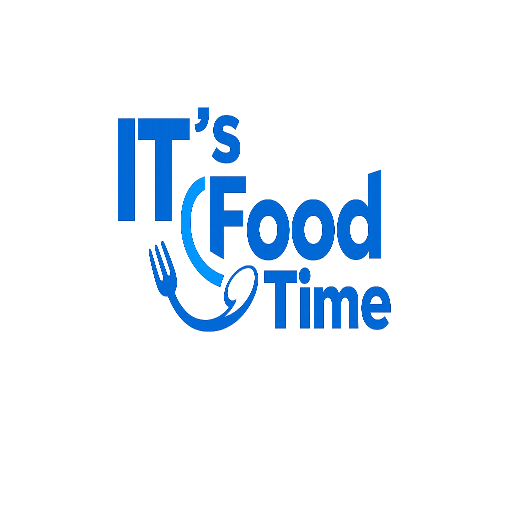
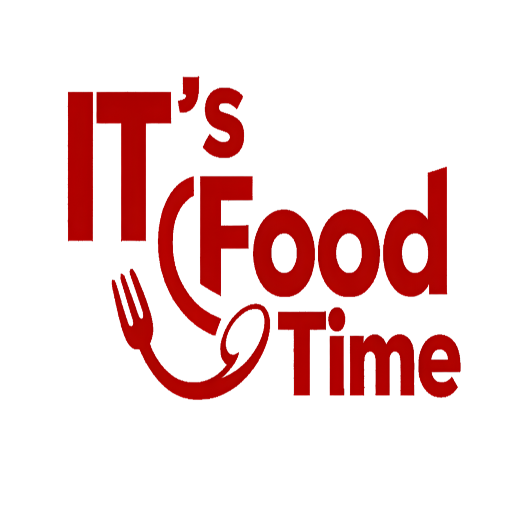
update warna

Changed region(s): [[0.125, 0.125, 0.9062, 0.7812]]

diff --git a/src/App.vue b/src/App.vue
@@ -237,7 +237,7 @@ onMounted(() => {
     <div class="modern-loader" :class="{ 'slide-up-exit': !isAppLoading }" v-if="preventUnmount">
       <div class="loader-content">
         <div class="loader-text-mask">
-          <img src="/logo/logo.png" alt="IT's Food Time Logo" class="loader-logo" />
+          <img src="/logo/logo1.png" alt="IT's Food Time Logo" class="loader-logo" />
         </div>
         <div class="loader-line-wrapper">
           <div class="loader-line"></div>
@@ -254,7 +254,7 @@ onMounted(() => {
           <!-- Logo -->
           <div class="header-left">
             <a href="#" class="logo" @click.prevent="navigateTo('home')">
-              <img src="/logo/logo.png" alt="Logo" class="logo-img" />
+              <img src="/logo/logo1.png" alt="Logo" class="logo-img" />
             </a>
           </div>
           
@@ -306,7 +306,7 @@ onMounted(() => {
             <div class="hero-overlay">
               <div class="container hero-content-centered">
                 <div class="badge">Student Special DiSC 20%</div>
-                <h1>Gather & Eat with Joy,<br/><span class="text-blue">Just like Home!</span></h1>
+                <h1>Gather & Eat with Joy,<br/><span class="text-primary">Just like Home!</span></h1>
                 <p>Tired of campus meals? IT's Food Time brings you fresh, hot, and tasty food where everyone can gather comfortably.</p>
                 <div class="hero-actions">
                   <a href="#menu" class="btn btn-primary">Order Now</a>
@@ -658,7 +658,7 @@ onMounted(() => {
   overflow: hidden;
   height: 100vh;
 }
-.text-blue {
+.text-primary {
   color: var(--primary);
 }
 

diff --git a/src/style.css b/src/style.css
@@ -1,7 +1,7 @@
 :root {
-  --primary: #3b82f6; /* Medium light blue */
-  --primary-hover: #2563eb;
-  --secondary: #dbeafe; /* Very soft light blue */
+  --primary: #b42a17; /* Red */
+  --primary-hover: #962213;
+  --secondary: #fcebe9; /* Very soft light red */
   --bg: #ffffff; /* White */
   --surface: #ffffff;
   --text: #334155;
@@ -10,7 +10,7 @@
   --border: #e2e8f0;
   --shadow-sm: 0 4px 6px rgba(0, 0, 0, 0.05);
   --shadow-md: 0 10px 30px rgba(0, 0, 0, 0.08);
-  --shadow-primary: 0 8px 20px rgba(59, 130, 246, 0.25);
+  --shadow-primary: 0 8px 20px rgba(180, 42, 23, 0.25);
   --radius-sm: 8px;
   --radius-md: 14px;
   --radius-lg: 24px;
